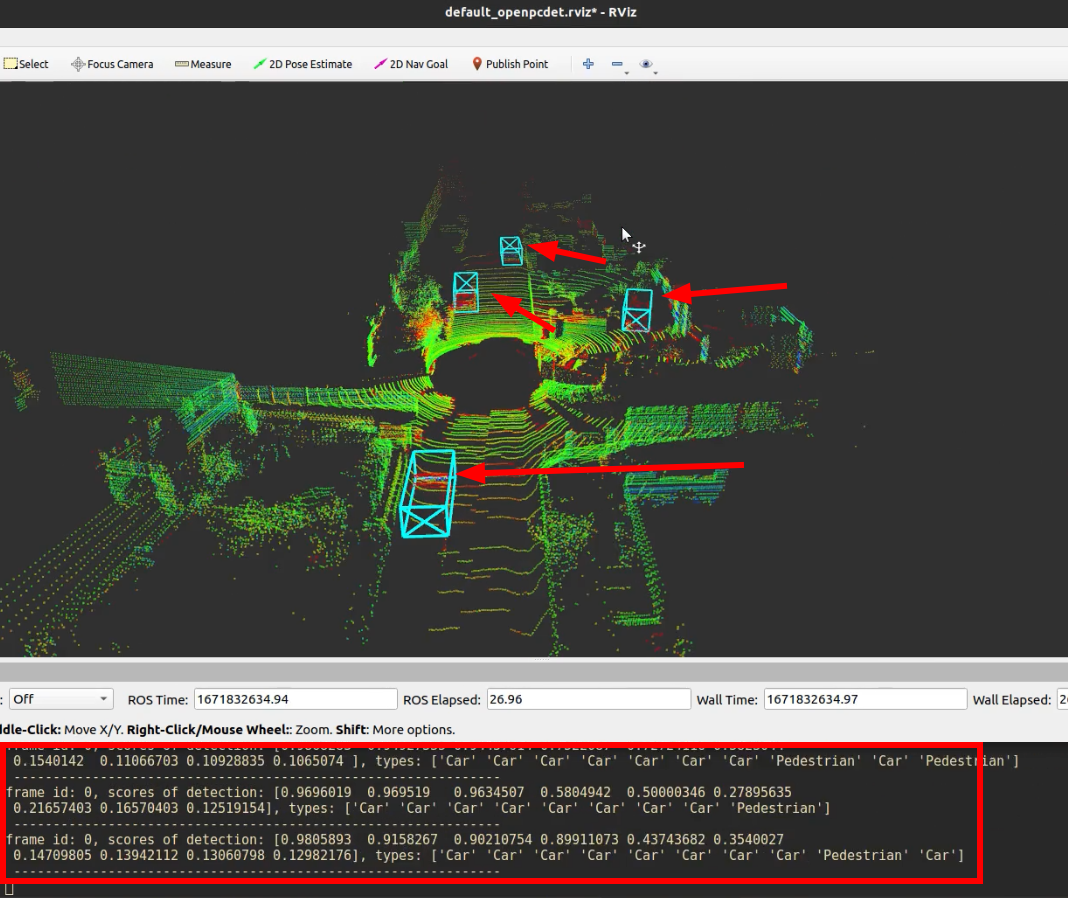
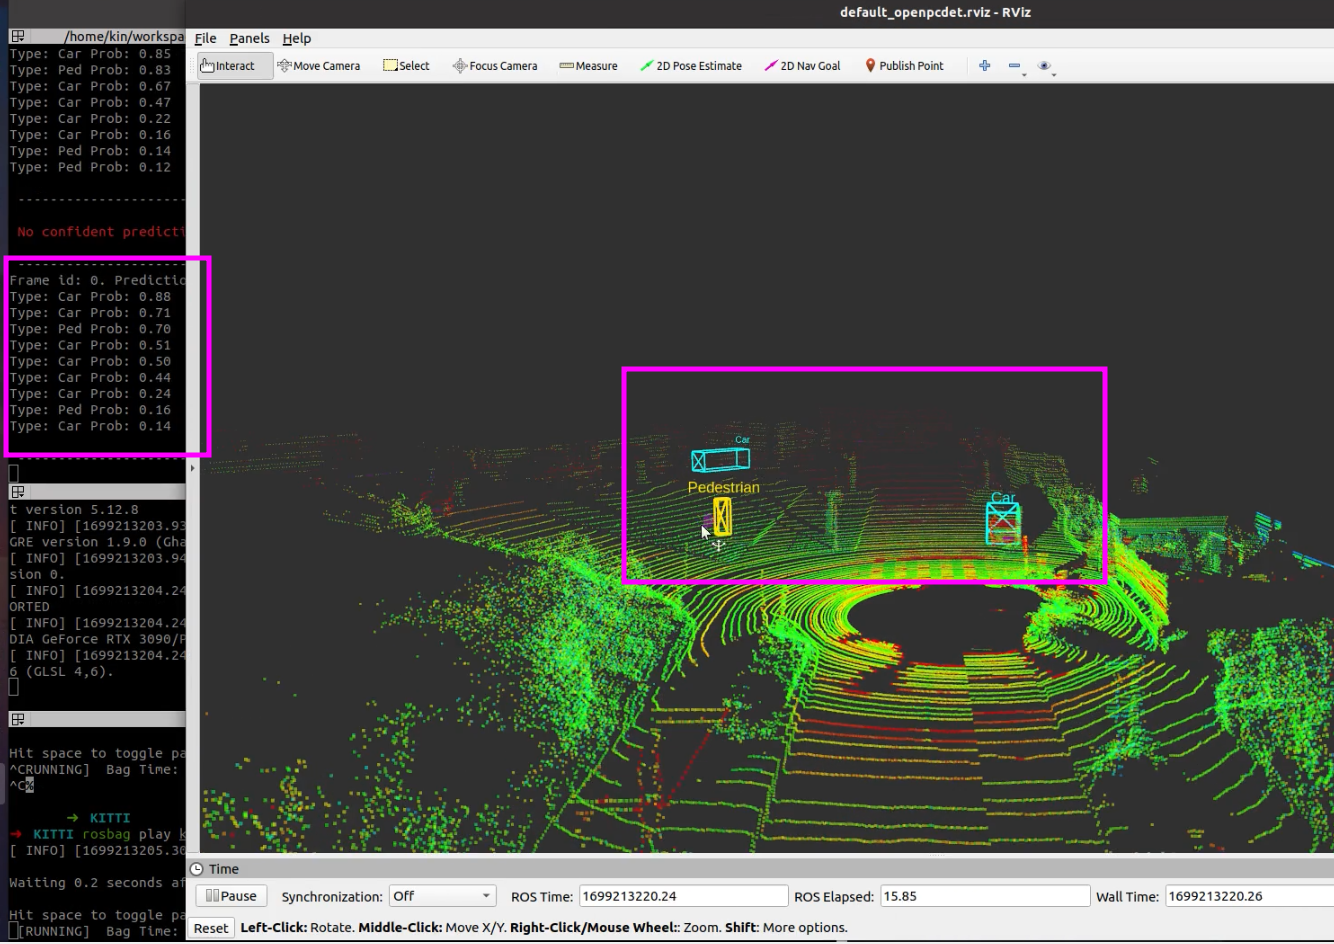
feat: add type text into rviz also. check issue: https://github.com/Kin-Zhang/OpenPCDet_ros/issues/6

diff --git a/src/utils/draw_3d.py b/src/utils/draw_3d.py
@@ -99,7 +99,7 @@ class Draw3DBox:
     def set_frame_id(self, marker_frame_id):
         self.frame_id = marker_frame_id
 
-    def publish_3dbox(self, dt_box_lidar, track_ids, types=None, publish_id=True, move_lidar_center=20):
+    def publish_3dbox(self, dt_box_lidar, track_ids, types=None, publish_id=True, move_lidar_center=20, publish_type=True):
         """
         Publish 3d boxes in velodyne coordinate, with color specified by object_types
         If object_types is None, set all color to cyan
@@ -175,6 +175,33 @@ class Draw3DBox:
                     text_marker.color.r = r/255.0
                     text_marker.color.g = g/255.0
                     text_marker.color.b = b/255.0
+                text_marker.color.a = 1.0
+                marker_array.markers.append(text_marker)
+                
+            if publish_type:
+                text_marker = Marker()
+                text_marker.header.frame_id = self.frame_id
+                text_marker.header.stamp = rospy.Time.now()
+
+                text_marker.id = i + 1000
+                text_marker.action = Marker.ADD
+                text_marker.lifetime = rospy.Duration(self.lifetime)
+                text_marker.type = Marker.TEXT_VIEW_FACING
+
+                bc = (corners_3d_velo[6] + corners_3d_velo[7] + corners_3d_velo[2] + corners_3d_velo[3])/4 # back center
+
+                text_marker.pose.position.x = bc[0]
+                text_marker.pose.position.y = bc[1]
+                text_marker.pose.position.z = bc[2] + 1.5
+
+                text_marker.text = types[i]
+                text_marker.scale.x = 1
+                text_marker.scale.y = 1
+                text_marker.scale.z = 1
+                b, g, r = DETECTION_COLOR_MAP[types[i]]
+                text_marker.color.r = r/255.0
+                text_marker.color.g = g/255.0
+                text_marker.color.b = b/255.0
                 text_marker.color.a = 1.0
                 marker_array.markers.append(text_marker)
 
